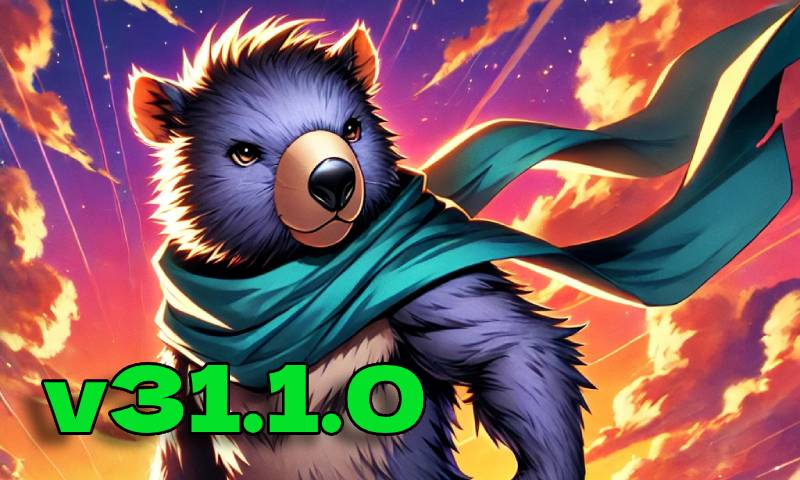
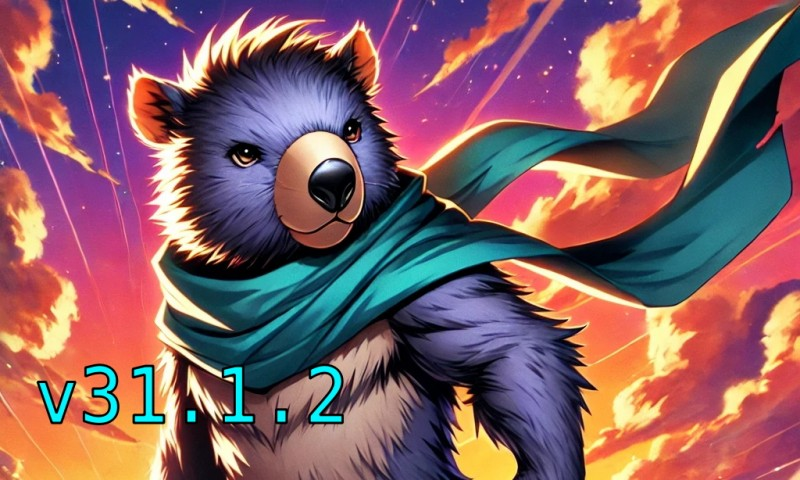
Bump version number

diff --git a/README.md b/README.md
@@ -10,6 +10,6 @@ The current required packages for building the Wombat are below:
 - [harrogate (v1.0.1)](https://github.com/kipr/harrogate/releases/tag/v1.0.1)
 
 # Image
-The Wombat is on v31.1.1. An image for flashing an SD card can be found below:
+The Wombat is on v31.1.2.
 
-[Wombat v31.1.1 Image](http://files.kipr.org/wombat/Wombat_v31.1.1.img)
+[Wombat v31.1.1 Image](http://files.kipr.org/wombat/Wombat_v31.1.2.img)
